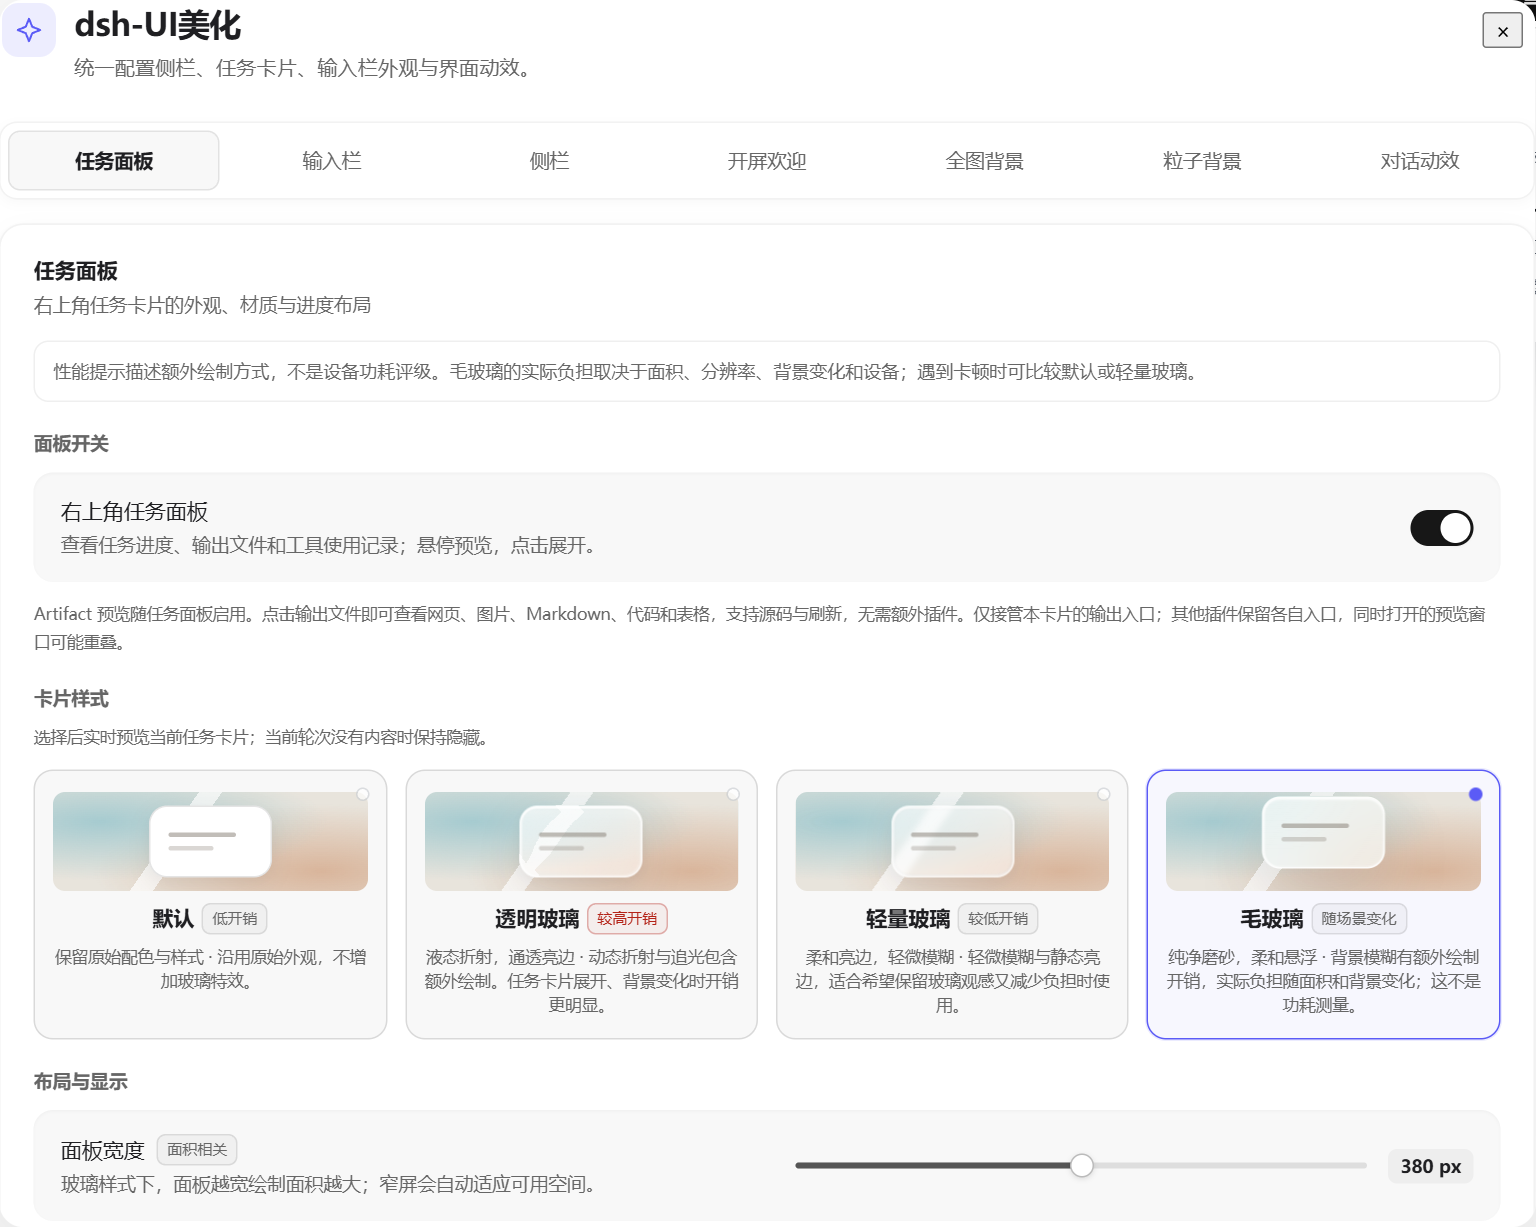
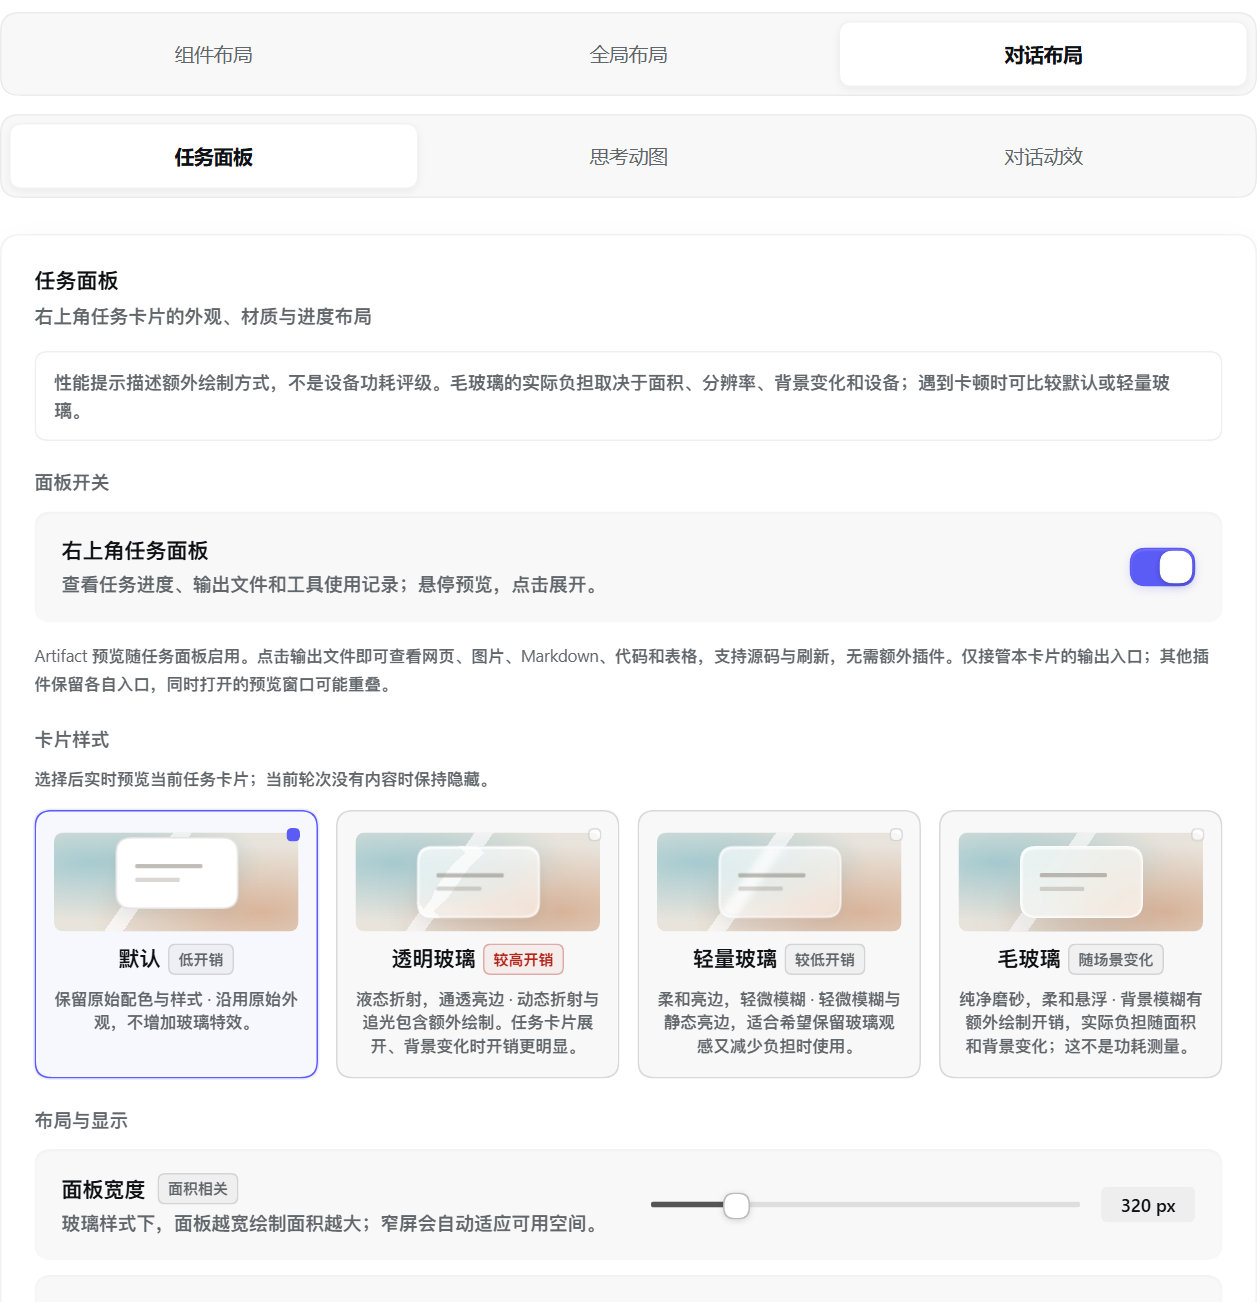
chore: 发布 0.4.2
- 版本号与锁文件升到 0.4.2，更新 README、CHANGELOG、FEATURES 与 RELEASE-0.4.2 说明。
- 插件市场截图按当前版本重拍：两级设置导航、对话动效（含流式文字渐显）与消息气泡。
- 补上 docs/validation-0.4.2.json 验证记录；安装包随附 0.4.2 发布说明、验证记录与流式文字渐显说明。

diff --git a/docs/FEATURES.md b/docs/FEATURES.md
@@ -245,6 +245,12 @@ GitHub 仓库名为 **dsh-ui-beautify**，显示名称为 **dsh-UI美化**。包
 
 验证：`npm run test:messages` 从本机 DSH 的原生定义读取 `assistant-step` 标记，并实际渲染其 `AssistantMarkdown` 组件，验证新建过程分组内的流式首段不会被误当历史。另覆盖首次发送、待确认消息替换、历史与同轮补载、稳定标识重挂载、插槽 `display:contents`、会话切换、动效开关、减少动态效果、强制颜色和卸载清理。`test:composer` 检查设置中的预览确实使用同一组 280/300ms 动画。截图输出到 `.scratch/claude-beautify/<版本>/message-motion/`（设置 `DSH_CLAUDE_OUTPUT_DIR`），不入库。
 
+## 流式文字渐显与跟随平滑
+
+**设置 → dsh-UI美化 → 对话动效 → 流式文字渐显**，默认开启，强度 **轻柔 / 标准 / 明显**，可点 **播放预览** 比较。回答生成时新文字先隐藏，再以自适应速度逐字淡入：稳定输出时均匀地跟在到达位置后面约 0.26–0.44 秒，模型一次吐出的大段先快后慢地追上。已输出的内容随新行匀速上滑；回答结束时尾栏出现不再跳动。只处理主页面原生回答与思考行，用户消息、历史、切换会话和 DS Bot 等其他插件的界面不处理。往上翻看、滚轮、触摸、拖动和阅读按键立即交还宿主；减少动态效果或强制颜色时直接显示，关闭开关与卸载会释放全部高亮与动画。实现与实测见 [流式文字渐显](STREAM-REVEAL.md)。
+
+验证：`npm run test:stream-reveal`（11 项）、`DSH_ASAR=… npm run test:composer-scroll-motion`（7 项）。
+
 ## 内容来源
 
 - **进度**：最新轮次订阅当前 Session 的 `todos` projection，历史轮次从该轮已加载的 `todo/write` 事件还原最后清单，以 `turn/start` 确认边界，空轮不继承上一轮的任务。默认展示当前步骤附近的 3 步（可设为 2 步），其余分为“先前步骤”和“后续步骤”独立折叠，记住各组开合。比较每次清单的步骤文字和顺序，在运行过程中真正新增或调整计划且正在看最新轮次时触发保持展开；仅改变状态不触发。首次看到的已有清单作为基线，单纯运行状态变化或工具/输出记录不触发。没有任务清单时隐藏整块进度；关闭按钮保留在首个有内容的栏目右侧。

diff --git a/CHANGELOG.md b/CHANGELOG.md
@@ -1,6 +1,15 @@
 # 更新记录
 
-## 未发布
+## 0.4.2 — 2026-10-28
+
+流式输出与滚动平滑版，发布说明见 [RELEASE-0.4.2](docs/RELEASE-0.4.2.md)。
+
+- **流式文字渐显**（对话布局 → 对话动效，默认开启，强度默认「轻柔」）：回答生成时新文字先隐藏，再以平滑的节奏逐字淡入；模型一次吐出的一大段约一秒内均匀打完，不再整段或逐字硬跳。用 CSS Custom Highlight 绘制，不改动宿主文本节点与排版，回答结束后不留动画；减少动态效果、强制颜色时直接显示。详见 [流式文字渐显](docs/STREAM-REVEAL.md)。
+- **流式跟随平滑**：输出时宿主每多一行就把滚动位置一帧跳 24–64px，现在已输出的内容按出字节奏匀速上滑；回答结束时「已完成」标题插入、状态行移除与尾栏出现同帧补偿，不再先跳后回。往上翻看（包括思考期间）、滚轮、触摸、拖动和阅读按键立即交还宿主。
+- **多行草稿回车不再抖动**：发送时补偿观察器排在宿主跟随控制器之后同帧补偿，输入框收缩与正文缓动共用一条时间线。详见 [发送动效协调](docs/SEND-MOTION-COORDINATION.md)。
+- DS Bot 等其他插件绘制的聊天界面不受流式渐显与跟随平滑影响。
+
+以下为 0.4.1 发布后已合入 `main` 的修复，随本版一起发布：
 
 - **移除一个仅本机私用的开屏示例**：它的图形素材不随插件分发，也不该在打开设置页时被自动写入本机预设。现在源码与产物都不再包含它的 HTML、SVG 数据与预设定义；设置页的代码开屏列表只显示用户自己保存的条目。
 - 补齐 `src/` 缺失的两个导出：`welcomeCodeReferences`（`welcome-code.js`）与 `cacheOpeningAppearance`（新增 `opening-appearance.js`），`npm run check:lens` / `build:lens` 不再因 `missing exports: welcomeCodeReferences, cacheOpeningAppearance` 失败。

diff --git a/README.md b/README.md
@@ -1,6 +1,6 @@
 # dsh-UI美化
 
-当前版本 **0.4.1**（侧栏与顶部布局修复版，见 [0.4.1 发布说明](docs/RELEASE-0.4.1.md)）。0.4.0 的功能、可调项与兼容边界参阅 [0.4.0 发布说明](docs/RELEASE-0.4.0.md) 和 [验证记录](docs/validation-0.4.0.json)。
+当前版本 **0.4.2**（流式输出与滚动平滑版，见 [0.4.2 发布说明](docs/RELEASE-0.4.2.md)）。0.4.0 的功能、可调项与兼容边界参阅 [0.4.0 发布说明](docs/RELEASE-0.4.0.md) 和 [验证记录](docs/validation-0.4.0.json)。
 
 为 DeepSeek Harness 提供独立的任务面板、输入栏与侧栏材质，以及背景、主题切换和对话动效。各区域分别配置，默认样式排在材质选项最前面。
 
@@ -13,6 +13,8 @@
 顶部「全局配置」支持导入与导出所有分类、独立黑白主题、自定义 CSS、工具栏和聊天宽度。默认导出轻量 JSON；开启「包含本机素材」后可导出背景、开屏、粒子和自定义动图包的完整备份。导入先查看摘要，支持撤销；素材变更后按提示刷新界面。详见 [配置备份与迁移](docs/SETTINGS-TRANSFER.md)。
 
 ![独立设置与任务卡片](assets/screenshots/settings.png)
+
+![流式文字渐显设置与预览](assets/screenshots/stream-reveal.png)
 
 ![用户消息气泡示例](assets/screenshots/message-bubbles.png)
 

diff --git a/docs/RELEASE-0.4.2.md b/docs/RELEASE-0.4.2.md
@@ -1,0 +1,14 @@
+# 0.4.2 流式输出与滚动平滑版
+
+本次以 0.4.1 为基础：
+
+- **流式文字渐显**：回答生成时新文字以平滑的节奏逐字淡入，模型一次吐出的大段约一秒内均匀打完，不再整段或逐字硬跳。在「对话布局 → 对话动效」中开关，可选轻柔、标准、明显三档并播放预览，默认开启轻柔。
+- **跟随滚动平滑**：输出过程中已输出的内容按出字节奏匀速上滑；回答结束时尾栏出现不再先跳后回；思考期间往上翻看不再卡顿。
+- **多行草稿回车不再抖动**：发送时正文缓动与输入框收缩共用一条时间线。
+- 0.4.1 发布后的源码对齐修复（移除仅本机私用的开屏示例、补齐导出、`client.js` 可复现构建）一起发布。
+
+只处理主页面原生对话，DS Bot 等其他插件的界面不受影响。不包裹或改写宿主文本节点、不改排版；减少动态效果和强制颜色时直接显示，回答结束后没有常驻动画。
+
+升级保留偏好与导入素材。使用 DSH 插件页现有安装来源更新，按宿主提示重载；源码链接版更新后刷新窗口。安装包不执行构建钩子，无运行时 npm 依赖。
+
+验证结果见 validation-0.4.2.json。安装包随附 SHA256SUMS.txt；许可与兼容范围沿用 0.4.0。
